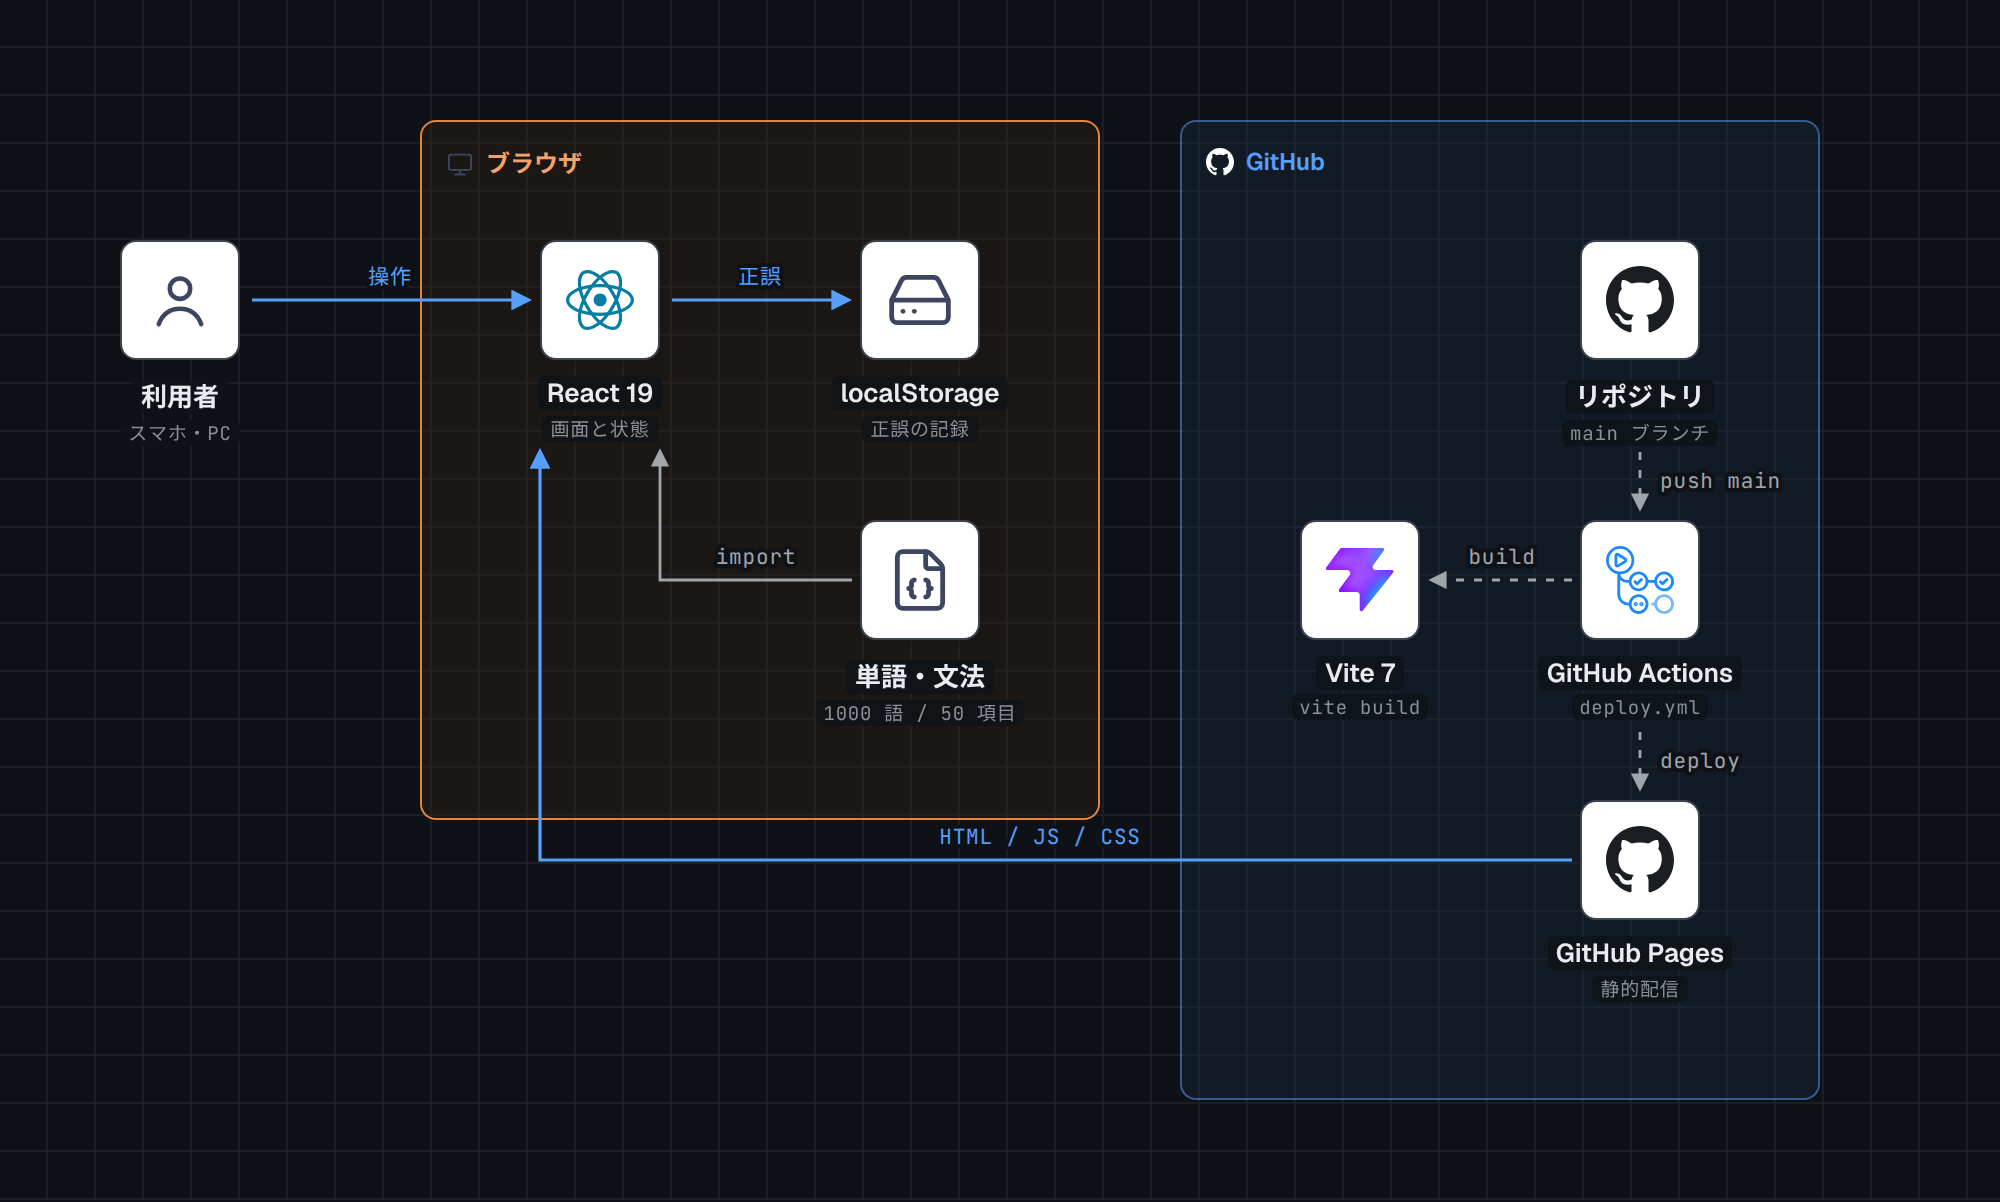
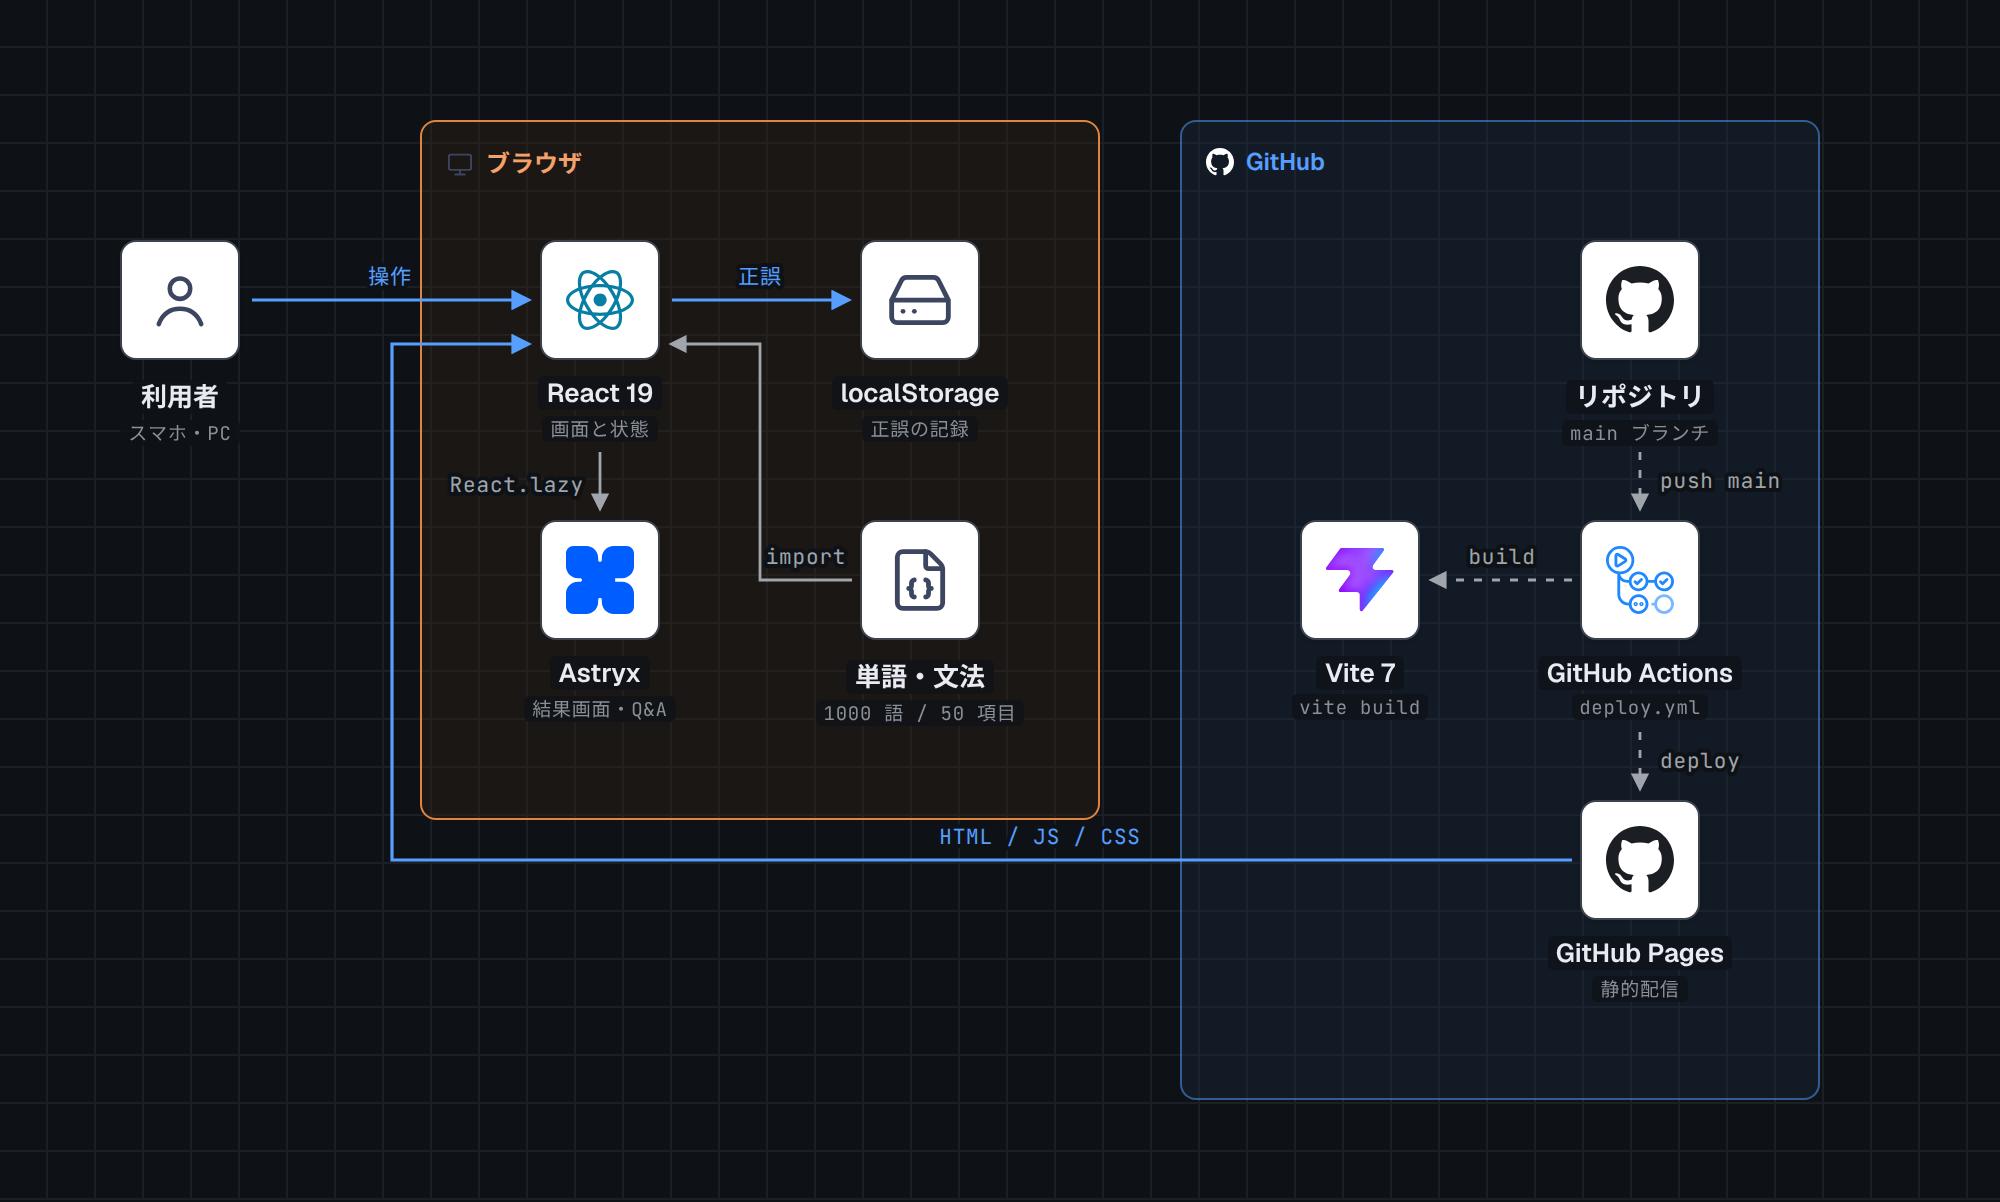
設計書を Astryx の導入後の作りに合わせる
構成図に Astryx を足し (stack-diagram で描き直し)、画面遷移に Q&A と「復習完了！」への流れを、
コンポーネント構成に後から読み込む部品と AstryxScope を足した。Astryx の使い方 (後から読む理由、
reset を全体に入れない理由、テーマ、版を上げるときの手順) の節を足し、直した 3 件を既知の課題から外した。

diff --git a/docs/architecture.html b/docs/architecture.html
@@ -200,15 +200,17 @@ path.aws { stroke: var(--color-ink); stroke-width:1.6; fill:none; }
       <text class="el a" x="195" y="142" text-anchor="middle">操作</text>
       <path class="e" d="M336 150 H424" marker-end="url(#ar)"/>
       <text class="el a" x="380" y="142" text-anchor="middle">正誤</text>
-      <path class="n" d="M426 290 H330 V226" marker-end="url(#ar)"/>
-      <text class="el" x="378" y="282" text-anchor="middle">import</text>
+      <path class="n" d="M426 290 H380 V172 H336" marker-end="url(#ar)"/>
+      <text class="el" x="403" y="282" text-anchor="middle">import</text>
       <path class="n dash" d="M820 226 V254" marker-end="url(#ar)"/>
       <text class="el" x="830" y="244">push main</text>
       <path class="n dash" d="M786 290 H716" marker-end="url(#ar)"/>
       <text class="el" x="751" y="282" text-anchor="middle">build</text>
       <path class="n dash" d="M820 366 V394" marker-end="url(#ar)"/>
       <text class="el" x="830" y="384">deploy</text>
-      <path class="e" d="M786 430 H270 V226" marker-end="url(#ar)"/>
+      <path class="e" d="M786 430 H196 V172 H264" marker-end="url(#ar)"/>
+      <path class="n" d="M300 226 V254" marker-end="url(#ar)"/>
+      <text class="el" x="292" y="246" text-anchor="end">React.lazy</text>
       <text class="el a" x="520" y="422" text-anchor="middle">HTML / JS / CSS</text>
     </svg>
 
@@ -225,6 +227,10 @@ path.aws { stroke: var(--color-ink); stroke-width:1.6; fill:none; }
     <div class="node" style="left:394px;top:120px">
[1 lines of base64/hex data omitted]
       <div class="name"><span>localStorage</span></div><div class="role"><span>正誤の記録</span></div>
+    </div>
+    <div class="node" style="left:234px;top:260px">
[1 lines of base64/hex data omitted]
+      <div class="name"><span>Astryx</span></div><div class="role"><span>結果画面・Q&amp;A</span></div>
     </div>
     <div class="node" style="left:394px;top:260px">
[1 lines of base64/hex data omitted]
@@ -257,7 +263,7 @@ path.aws { stroke: var(--color-ink); stroke-width:1.6; fill:none; }
   </div>
 
   <div class="foot">
-    <span>english-vocab-app の main (2026-11) から作成</span>
+    <span>english-vocab-app (2026-11、Astryx の導入後) から作成</span>
     <span>icons: svgl / devicon / Lucide · made with <a href="https://github.com/caru-ini/stack-diagram" target="_blank" rel="noopener">stack-diagram</a></span>
   </div>
 

diff --git a/README.md b/README.md
@@ -10,8 +10,8 @@
 - 英単語に対して4択から日本語の意味を選ぶ
 - 回答後に正誤フィードバックと例文（英語・日本語）を表示
 - プログレスバーで進捗を確認
-- 終了時に正解率・不正解数を表示
-- 間違えた問題だけをその場で復習可能
+- 終了時の結果画面に、正解・不正解の数、正解率のバー、間違えた単語の一覧を表示
+- 間違えた問題だけをその場で復習可能。全問に正解すると「復習完了！」を表示
 
 ### 復習モード
 - 過去に間違えた単語のうち、最後の回答が不正解のものだけを出題
@@ -34,6 +34,10 @@
 - 間違えた単語の一覧（連続正解数バッジ・「この N 語を復習する」ボタン付き）
 - 記録リセット機能
 
+### Q&A
+- アプリの使い方の質問 8 つと答え（登録の要否、問題数、復習に出る単語、記録の保存先と消し方など）
+- 質問を押すと答えが開く。開くのは一度に 1 つ
+
 ## 技術構成
 
 | 項目 | 技術 |
@@ -41,6 +45,7 @@
 | フレームワーク | React 19 |
 | ビルドツール | Vite 7 |
 | スタイル | CSS（CSS カスタムプロパティによるデザイントークン） |
+| UI 部品（一部） | [Astryx](https://github.com/meta/astryx) 0.7.11。結果画面と Q&A だけで使い、開いたときに読み込む（[Astryx の使い方](#astryx-の使い方)） |
 | データ保存 | localStorage |
 | 単語データ | 固定データ（1000語、例文・日本語訳付き） |
 | 文法データ | 固定データ（50項目） |
@@ -81,11 +86,19 @@ english-vocab-app/
     ├── data/
     │   ├── words.js          # 英単語データ（1000語）
     │   └── grammar.js        # 文法データ（50項目）
+    ├── themes/
+    │   └── vocab/            # Astryx のテーマ（neutral の字体を丸ゴシックにしたもの）
+    │       ├── vocabTheme.ts       # テーマの元（defineTheme）
+    │       ├── vocabTheme.doc.mjs  # テーマの説明（CLI が読む）
+    │       └── vocab.js / vocab.css / *.d.ts  # theme build の出力（手で直さない）
     ├── components/
     │   ├── icons.jsx         # インライン SVG アイコン
+    │   ├── AstryxScope.jsx   # Astryx の画面の土台（テーマ・CSS の読み込み・幅）
+    │   ├── astryx-scope-reset.css  # Astryx の画面の中だけに効かせる reset
     │   ├── Quiz.jsx          # クイズ画面（モード選択・出題）
     │   ├── Quiz.css
-    │   ├── QuizEnd.jsx       # クイズ終了画面（結果・セッション復習）
+    │   ├── QuizEnd.jsx       # クイズ終了画面（結果・セッション復習。Astryx）
+    │   ├── QA.jsx            # Q&A（Astryx）
     │   ├── Result.jsx        # 1問ごとの正誤フィードバック
     │   ├── Result.css
     │   ├── Review.jsx        # 復習モード（間違えた単語のみ）
@@ -100,13 +113,13 @@ english-vocab-app/
         └── storage.js        # localStorage操作ユーティリティ
 ```
 
-## 設計
+`.claude/CLAUDE.md` は Claude Code などの AI 向けの説明です。Astryx の部品の一覧と使い方を `astryx init` が書き込み、版を上げたときは `npm run astryx -- upgrade` で直します。
 
-この節は `main` のコードから書いています。結果画面を作り直す PR #7 がマージされたら更新します。
+## 設計
 
 ### 構成
 
-サーバーを持たない静的なアプリです。GitHub Pages が配る HTML・JS・CSS がブラウザの中だけで動き、単語と文法のデータは JS に同梱されています。回答の記録はブラウザの localStorage に保存するので、外部との通信はページの読み込みだけです。
+サーバーを持たない静的なアプリです。GitHub Pages が配る HTML・JS・CSS がブラウザの中だけで動き、単語と文法のデータは JS に同梱されています。回答の記録はブラウザの localStorage に保存するので、外部との通信はページの読み込みだけです。結果画面と Q&A は Astryx の部品で描き、その JS と CSS は画面を開いたときに読み込みます（`React.lazy`）。
 
 <picture>
   <source media="(prefers-color-scheme: dark)" srcset="docs/architecture-dark.png">
@@ -117,7 +130,7 @@ english-vocab-app/
 
 ### 画面遷移
 
-ページはヘッダーのナビで切り替えます。URL は変わらず、`App.jsx` の `page` の状態だけで表示を切り替えます。ナビからはどのページにも直接移れます。図には、ナビ以外の移り方だけを矢印で描いています。
+ページはナビで切り替えます。ナビは、幅が 840px 以上ではヘッダーの中に、839px 以下では画面の下に固定したタブとして並びます。URL は変わらず、`App.jsx` の `page` の状態だけで表示を切り替えます。ナビからはどのページにも直接移れます。図には、ナビ以外の移り方だけを矢印で描いています。復習のページは開くたびに作り直し、最新の記録から出題します（`reviewKey` を 1 つ増やして `key` に渡す）。
 
 ```mermaid
 stateDiagram-v2
@@ -127,6 +140,7 @@ stateDiagram-v2
   state "単語一覧 (WordList)" as words
   state "文法 (GrammarList)" as grammar
   state "統計 (Stats)" as stats
+  state "Q&A (QA)" as qa
   [*] --> quiz: 起動時
   stats --> review: 「この N 語を復習する」
 ```
@@ -141,6 +155,7 @@ stateDiagram-v2
   state "結果 (phase=end)" as result
   state "結果画面からの復習 (reviewMode)" as rask
   state "復習の回答済み" as ranswered
+  state "復習完了 (reviewMode で問題なし)" as rdone
   [*] --> select
   select --> ask: 30問 / 100問 / 全問 / カスタムで開始
   ask --> answered: 選択肢を押す（正誤を保存）
@@ -151,14 +166,16 @@ stateDiagram-v2
   result --> rask: 間違えた問題を復習
   rask --> ranswered: 選択肢を押す（正誤を保存）
   ranswered --> rask: 次へ（未正解の語が残る）
-  ranswered --> result: 次へ（全部正解した）
+  ranswered --> rdone: 次へ（全部正解した）
+  rdone --> ask: もう一度挑戦
+  rdone --> select: モード選択へ
 ```
 
-全部正解したときに出るはずの「復習完了！」の画面には、今の作りでは届きません（[既知の課題](#既知の課題)）。
+結果画面からの復習では、正解した語を残りから外します。間違えた語は残し、次はできるだけ別の語を出します。残りが無くなったら「復習完了！」を出します（`QuizEnd.jsx` の `handleNext`）。
 
 ### コンポーネント構成
 
-実線は描画の親子、点線はデータと保存処理の参照です。アイコン（`icons.jsx`）はほぼすべての画面が使うので省いています。
+実線は描画の親子、太い線は開いたときに読み込む部品（`React.lazy`）、点線はデータと保存処理の参照です。アイコン（`icons.jsx`）はほぼすべての画面が使うので省いています。
 
 ```mermaid
 flowchart TD
@@ -168,10 +185,14 @@ flowchart TD
   App --> WordList["WordList.jsx"]
   App --> GrammarList["GrammarList.jsx"]
   App --> Stats["Stats.jsx"]
+  App ==> QA["QA.jsx<br/>Q&A"]
   Quiz --> QuizStart["QuizStart<br/>（Quiz.jsx の中）"]
   Quiz --> Result["Result.jsx<br/>1 問ごとの正誤"]
-  Quiz --> QuizEnd["QuizEnd.jsx<br/>結果と復習"]
+  Quiz ==> QuizEnd["QuizEnd.jsx<br/>結果と復習"]
   QuizEnd --> Result
+  QuizEnd --> Scope["AstryxScope.jsx<br/>テーマ・CSS・幅"]
+  QA --> Scope
+  Scope -.-> theme[("themes/vocab")]
   Review --> Result
   words[("data/words.js")] -.-> Quiz
   words -.-> QuizEnd
@@ -226,6 +247,28 @@ erDiagram
 - `getMistakeWordIds()`: 一度でも間違え（`incorrect > 0`）、かつ最後の回答が不正解（`streak === 0`）の単語を復習の対象にする。そのため、一度正解すると対象から外れる
 - `resetResults()`: 統計の画面の「記録をリセット」で、キーごと消す
 
+### Astryx の使い方
+
+結果画面と Q&A は、Meta の OSS のデザインシステム Astryx の部品で描いています。ほかの画面は今までどおり自前の CSS です。2 つの作り方が同じ画面に混ざらないよう、次のように分けています。
+
+| 決めたこと | 理由 |
+|---|---|
+| Astryx の画面は `React.lazy` で開いたときに読み込む | Astryx の JS と CSS は gzip で約 120 kB ある。最初の読み込み（gzip で JS 129 kB・CSS 3.6 kB）を変えないため |
+| Astryx の `reset.css` は全体に読み込まない。部品が前提にする指定だけを `astryx-scope-reset.css` に写し、`@scope ([data-astryx-theme])` で Astryx の画面の中に限る | 全体に読み込むと、行の高さ・見出し・余白・`color-scheme` が変わり、Astryx を使っていない画面の見た目が変わる |
+| テーマは neutral を受け継ぎ、字体だけを丸ゴシックにした `themes/vocab` | 他の画面と字体をそろえるため。`tokens` で字体を上書きしても反映されないので `typography` で指定している |
+| テーマは `mode="light"` に固定する | アプリにダークモードが無く、端末がダーク設定のときに Astryx の画面だけ暗くなるのを防ぐ |
+| Astryx の CSS はすべて `@layer` の中に入る | 層の外にある `index.css` などの既存の指定が常に勝つので、既存の画面に影響しない |
+
+テーマを変えたときと、Astryx の版を上げたときは、次を実行します。
+
+```bash
+npm run astryx -- theme build src/themes/vocab/vocabTheme.ts   # テーマを組み立て直す（出力もコミットする）
+npm run astryx -- upgrade --from <前の版> --apply                # 版を上げたあと、.claude/CLAUDE.md などを直す
+npm run build && npm run astryx -- doctor --built dist          # 納品前の検査
+```
+
+版を上げたら、`astryx-scope-reset.css` と写し元の `@astryxdesign/core/src/reset.css` の差分も見直します。CLI（`@astryxdesign/cli`）は Node 22.13 以上が要ります。GitHub Actions のビルドは Node 20 ですが、CLI を使わないので影響しません。
+
 ### ビルドと公開
 
 `main` に push すると、GitHub Actions（`.github/workflows/deploy.yml`）がビルドして GitHub Pages に公開します。公開先は `https://maco165.github.io/english-vocab-app/` で、`vite.config.js` の `base` を `/english-vocab-app/` にしてパスを合わせています。
@@ -247,14 +290,13 @@ flowchart LR
 
 | 課題 | 場所 | 中身 |
 |---|---|---|
-| 「復習完了！」の画面に届かない | `src/components/QuizEnd.jsx` の `handleNext` | 結果画面からの復習で最後の 1 語に正解すると、`reviewMode` を false に戻すので結果画面に戻る。完了の画面は `reviewMode` が true で問題が無いときだけ出るが、その状態にならない |
-| スマホでナビが 2 段に折り返す | `src/App.css` の `@media (max-width: 839px)` と `.mobile-nav` | 839px 以下ではナビの 5 つのボタンが幅に合わせて折り返し、390px では「クイズ・復習・単語一覧」と「文法・統計」の 2 段になる。ハンバーガーメニュー（`.mobile-nav`）は JSX に残っているが、CSS で常に非表示にしている。`App.css` のコメントには、メニューより折り返しのほうを選んだと書かれている |
-| lint のエラーが 1 件ある | `src/App.jsx:107` | 復習のページを開くたびに作り直すため `<Review key={Date.now()} />` としている。描画中に `Date.now()` を呼ぶので `react-hooks/purity` に当たる |
+| Astryx の画面を初めて開くとき、一瞬だけ何も出ない | `Quiz.jsx` と `App.jsx` の `Suspense` | 読み込みのあいだの表示（`fallback`）を `null` にしている |
+| `@scope` に対応していないブラウザでは、Q&A の質問の行がブラウザ標準のボタンの見た目になる | `src/components/astryx-scope-reset.css` | 操作はできる。主なブラウザは対応済み |
 
 ## レスポンシブ対応
 
 - 中身の段組みはブレークポイントを設けず、`flex-wrap` と `repeat(auto-fit, minmax(min(Npx, 100%), 1fr))` で折り返す
-- ヘッダーだけ 839px 以下で組み方を変える（`App.css` の `@media (max-width: 839px)`）。1 段目にロゴと GitHub のアイコン、2 段目にナビを置き、ナビは幅に合わせて折り返す。GitHub のリンクは文字を消してアイコンだけにする
+- ヘッダーとナビだけ 839px 以下で組み方を変える（`App.css` の `@media (max-width: 839px)`）。ヘッダーにはロゴと GitHub のアイコンだけを置き、ナビは画面の下に固定したタブにする。6 つのタブは 320px まで 1 段に収まる。下のタブに本文の最後が隠れないよう、`.app-main` の下の余白を広げる。GitHub のリンクは文字を消してアイコンだけにする
 - スマホ幅ではカード・選択肢が 1 列になる
 
 ## デザイン
@@ -264,6 +306,7 @@ flowchart LR
 - アクセント: `#C9461F`（朱）/ 復習: `#B7791F`（琥珀）
 - 正解: `#1E7F6E`（ティール）/ 不正解: `#C9461F`（朱）。赤／緑の対比は使わない
 - フォント: Zen Maru Gothic（日本語）＋ Nunito（英単語・数字）
+- Astryx の画面（結果画面・Q&A）は、Astryx の neutral テーマの配色に、字体だけ Zen Maru Gothic を合わせている。数字は色を付けず、主なボタンは黒
 
 ## ライセンス
 
